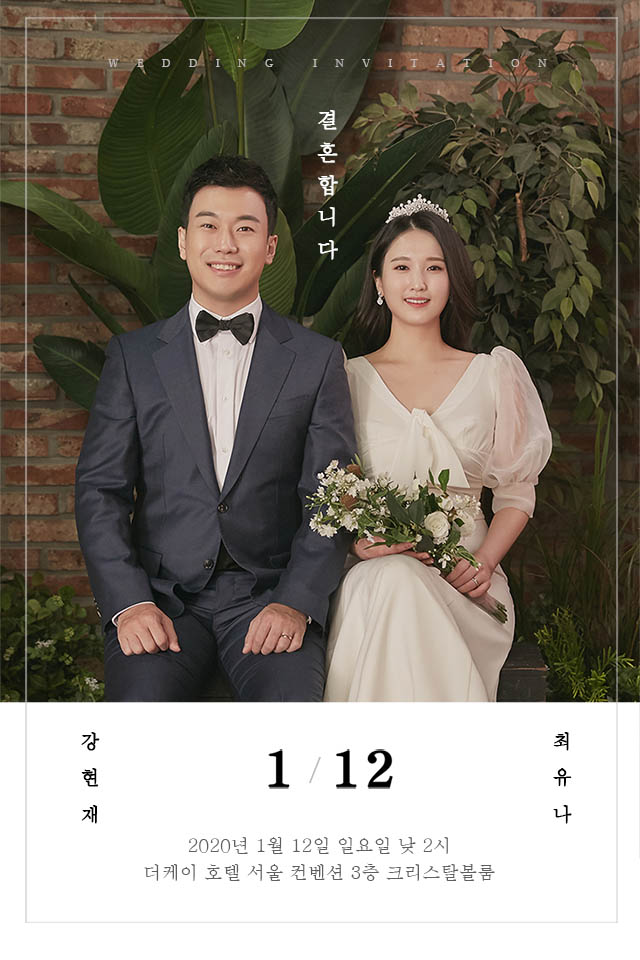
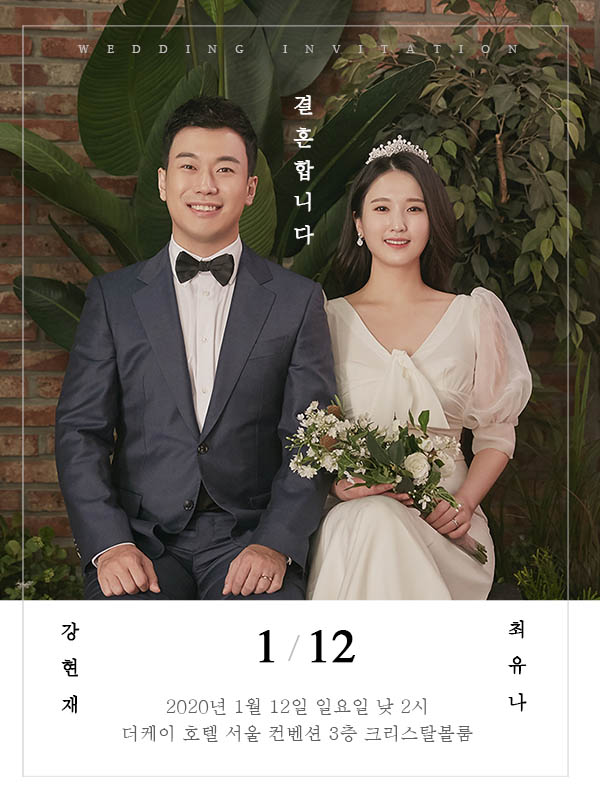
update index.html
kakao_main

diff --git a/index.html b/index.html
@@ -260,8 +260,8 @@
             title: '현재와 유나의 결혼식에 초대합니다.',
             description: '2020/1/12 오후 2시 더케이호텔',
             imageUrl: 'https://raw.githubusercontent.com/iamdawoonjeong/ynhjwedding/master/img/kakao_main.jpg',
-            imageWidth: 640,
-            imageHeight: 1280,
+            imageWidth: 600,
+            imageHeight: 800,
             link: {
               mobileWebUrl: 'http://dawoonjeong.com/ynhjwedding',
               webUrl: 'http://dawoonjeong.com/ynhjwedding'
